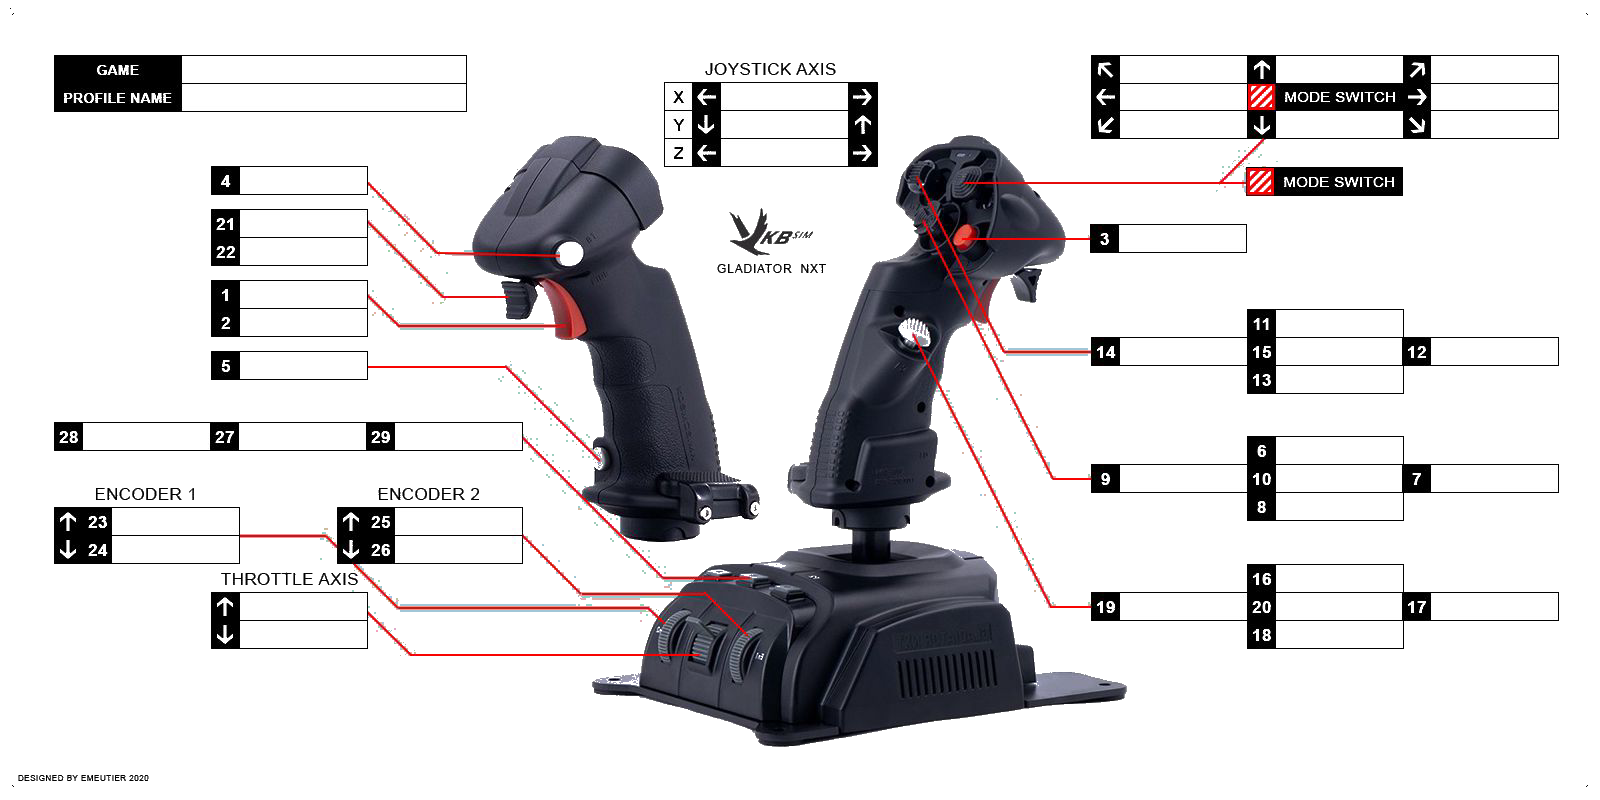
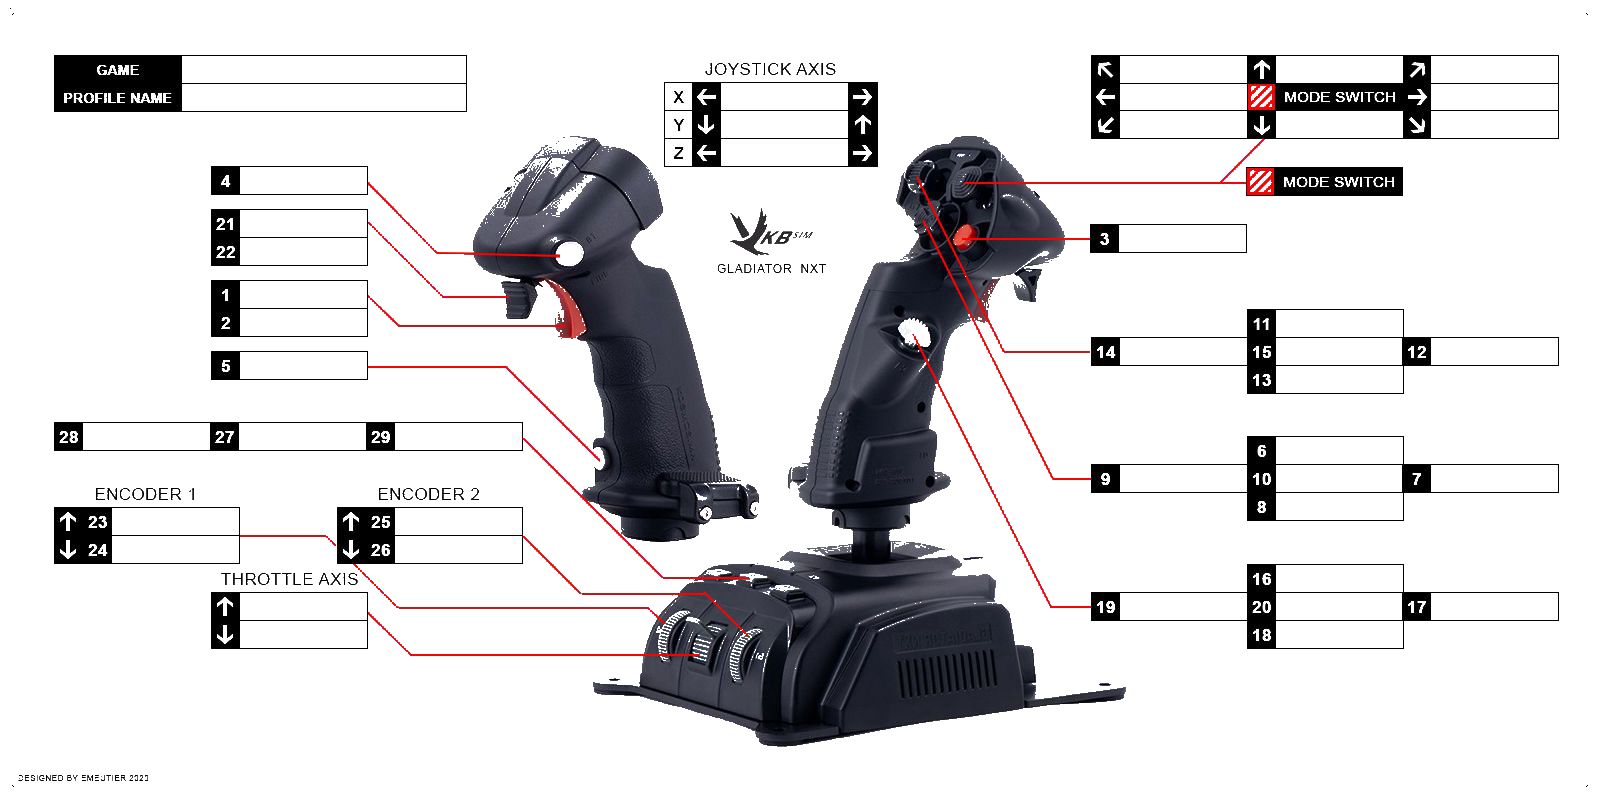
v0.7.8: VKB NXT PREM LH — Chroma-Artefakte restlos entfernt
Aggressiver Pixel-Filter: nur noch Schwarz (max<120), Rot (R>=2*G,B)
und Weiß (>225) werden behalten. Alle cyan/türkis/pink JPEG-Artefakte
entlang der roten Verbindungslinien sind damit restlos transparent.

diff --git a/index.html b/index.html
@@ -772,7 +772,7 @@
 <div id="statusbar">STATUS: <span id="statmsg">Bereit</span> &nbsp;|&nbsp; Geändert: <span id="changed-count">0</span> &nbsp;|&nbsp; Version: <span id="app-version"></span> &nbsp;|&nbsp; Update: <span id="update-status">prüfen...</span></div>
 
 <script>
-const APP_VERSION = 'v0.7.7';
+const APP_VERSION = 'v0.7.8';
 const UPDATE_API_URL = 'https://api.github.com/repos/Xharig-1/Joystick-Map/releases/latest';
 const SC_VERSION_API_URL = 'https://api.star-citizen.wiki/api/v2/game-versions';
 const MODES = [

diff --git a/README.md b/README.md
@@ -7,15 +7,15 @@ Der Stick wird im Header ausgewaehlt, die passende Vorlage laedt automatisch.
 
 Das Projekt ist eine fruehe Testversion und darf gern ausprobiert werden.
 
-## Was ist neu — v0.7.7
+## Was ist neu — v0.7.8
 
-- **VKB Gladiator NXT PREM LH** — JPEG-Artefakte (helle Halos entlang der roten Linien) entfernt; weiße Eingabeboxen bleiben erhalten
+- **VKB Gladiator NXT PREM LH** — Alle Chroma-Artefakte (cyan/türkis) entlang der roten Linien restlos entfernt
 
 Aeltere Aenderungen stehen im [CHANGELOG](CHANGELOG.md) und in den [Releases](../../releases).
 
 ## Version
 
-Aktuelle Version: `v0.7.7`
+Aktuelle Version: `v0.7.8`
 
 ## Download & Start
 

diff --git a/ROADMAP.md b/ROADMAP.md
@@ -1,6 +1,6 @@
 # Roadmap
 
-Aktuelle Version: `v0.7.7`
+Aktuelle Version: `v0.7.8`
 
 ## Zielbild
 
@@ -81,3 +81,4 @@ Geplant ist ein Vorlagen-System, bei dem Nutzer ihren Stick aus einer Liste ausw
 | v0.7.5 | VKB NXT PREM LH: eigenes Template-Bild + korrekte Feldpositionen ✓ |
 | v0.7.6 | VKB NXT PREM LH: Weiße Box-Fills transparent (Dunkel-Modus-Fix) ✓ |
 | v0.7.7 | VKB NXT PREM LH: JPEG-Artefakte entlang roter Linien entfernt; Weiß-Boxen behalten ✓ |
+| v0.7.8 | VKB NXT PREM LH: Alle Chroma-Artefakte restlos entfernt (nur Schwarz/Rot/Weiß behalten) ✓ |

diff --git a/CHANGELOG.md b/CHANGELOG.md
@@ -4,6 +4,12 @@ Alle wichtigen Änderungen an diesem Projekt werden hier dokumentiert.
 
 Das Projekt nutzt SemVer: `MAJOR.MINOR.PATCH`.
 
+## v0.7.8 - 2026-05-23
+
+### Behoben
+
+- VKB NXT PREM LH: Alle JPEG-Chroma-Artefakte (cyan/türkis/pink) entlang der roten Linien restlos entfernt. Neuer Filter behält nur noch gezielt: Schwarz (max < 120), Rot (R ≥ 2×G und ≥ 2×B) und Weiß (> 225). Alles andere wird transparent.
+
 ## v0.7.7 - 2026-05-23
 
 ### Behoben
